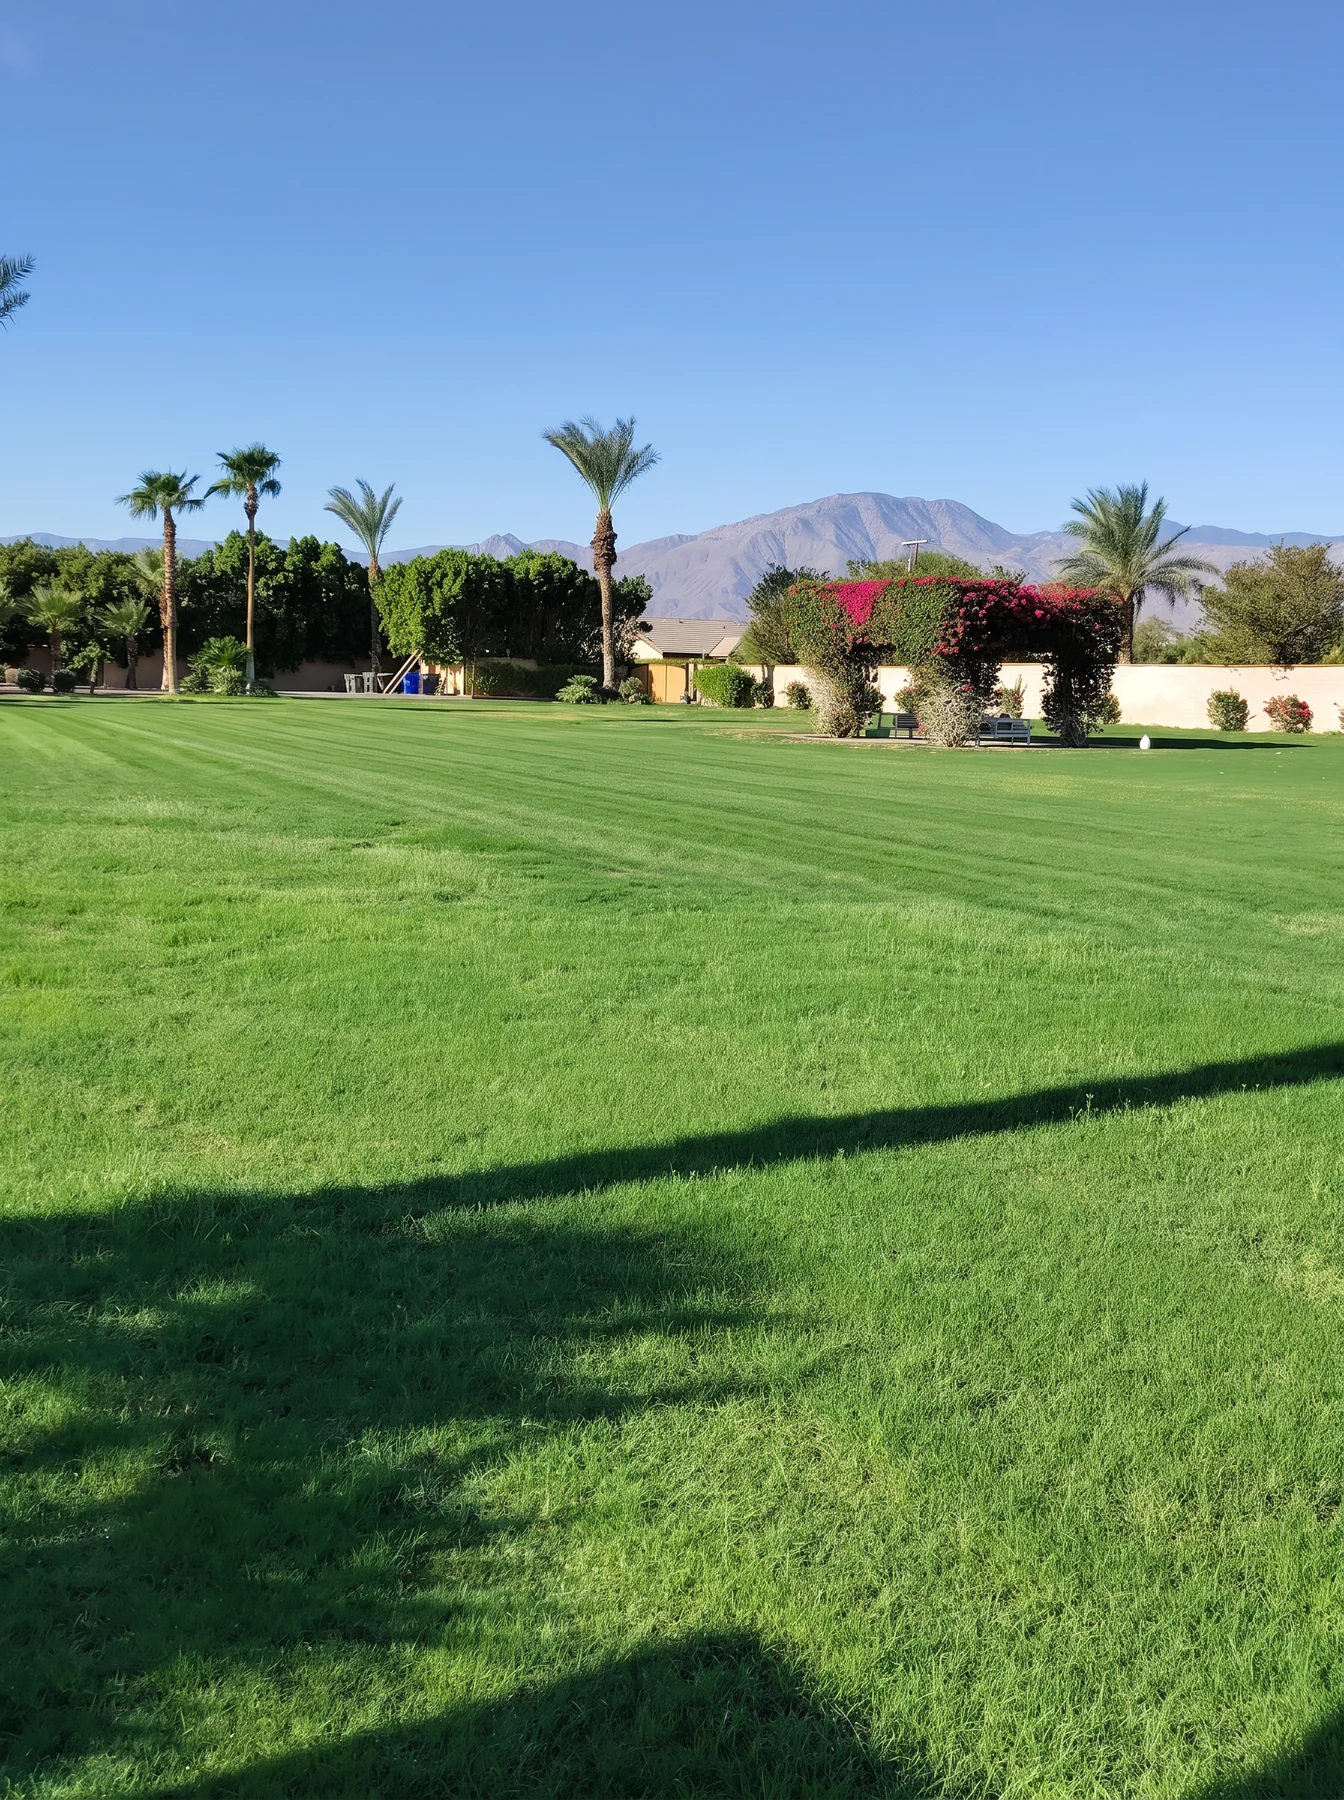
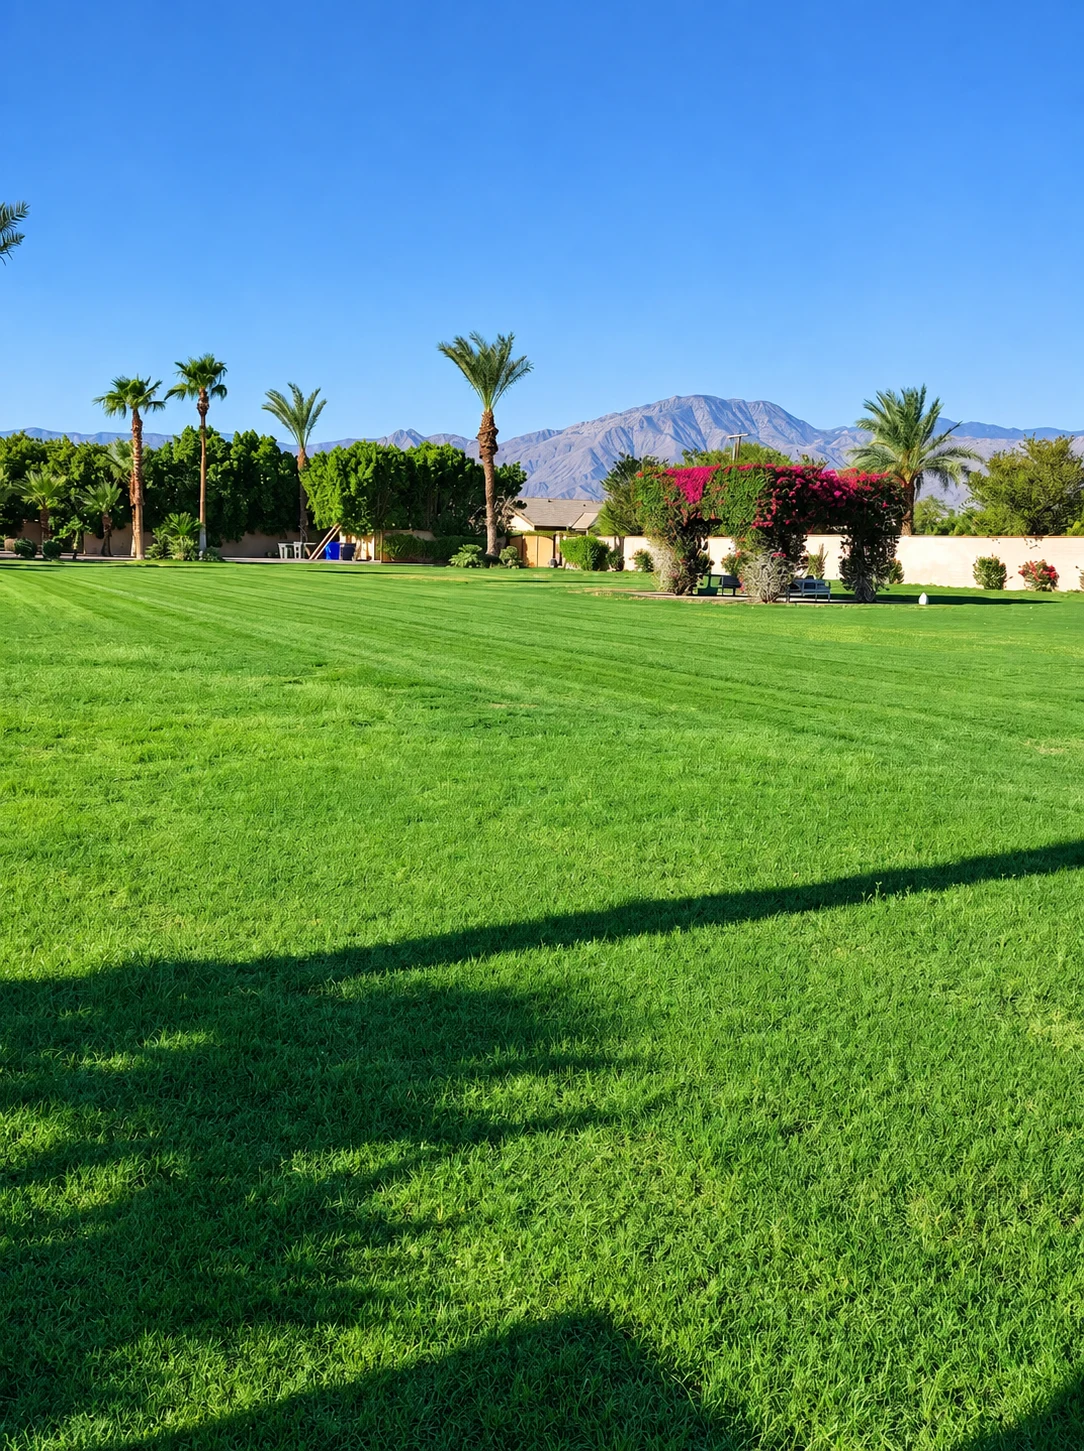
Elevate imagery and diversify landing heroes

diff --git a/src/main.js b/src/main.js
@@ -93,9 +93,9 @@ function picture(src, alt, className = '', loading = 'lazy') {
   return `<img class="${className}" src="${src}" alt="${alt}" loading="${loading}" decoding="async" />`
 }
 
-function pageHero({ image, eyebrow, title, copy, cta = 'Start planning', secondary = 'Explore', secondaryHref = '#story', badge = '' }) {
+function pageHero({ image, eyebrow, title, copy, cta = 'Start planning', secondary = 'Explore', secondaryHref = '#story', badge = '', variant = 'classic' }) {
   return `
-    <section class="page-hero">
+    <section class="page-hero page-hero--${variant}">
       ${picture(image, '', 'page-hero__image', 'eager')}
       <div class="page-hero__veil"></div>
       <div class="page-hero__content reveal is-visible">
@@ -247,7 +247,7 @@ function homePage() {
 function stayPage() {
   return `
     <main id="main">
-      ${pageHero({image: currentPoolOverview, eyebrow:'The private estate', title:'Three homes.<br /><em>One shared escape.</em>', copy:'A five-acre setting that gives the group a place to gather—and everyone enough space to find their own pace.', cta:'Check dates', secondary:'See the homes'})}
+      ${pageHero({image: '/media/estate/hardwood-fireplace.webp', eyebrow:'The private estate', title:'Come inside.<br /><em>Stay a while.</em>', copy:'Three private homes, newly finished interiors, and five acres that give the whole group room to settle into its own rhythm.', cta:'Check dates', secondary:'See the homes', variant:'interior'})}
       <section class="section-pad" id="story">
         ${editorialHeader('The homes', 'Together, without being on top of one another.', 'Three distinct homes share one relaxed design language: warm wood, clean white walls, collected art, shaded thresholds, and an easy connection to the grounds.')}
         <div class="home-cards">
@@ -307,7 +307,7 @@ function stayPage() {
 function weddingsPage() {
   return `
     <main id="main">
-      ${pageHero({image: currentStucco, eyebrow:'Weddings & celebrations', title:'Gather beautifully.<br /><em>Stay completely.</em>', copy:'An intimate desert setting for weddings, birthdays, and milestone weekends—with the estate reserved around your people.', cta:'Inquire about your date', secondary:'Imagine the weekend'})}
+      ${pageHero({image: currentStucco, eyebrow:'Weddings & celebrations', title:'Gather beautifully.<br /><em>Stay completely.</em>', copy:'An intimate desert setting for weddings, birthdays, and milestone weekends—with the estate reserved around your people.', cta:'Inquire about your date', secondary:'Imagine the weekend', variant:'event'})}
       <section class="intro split" id="story"><div class="intro__copy reveal"><p class="eyebrow">The occasion</p><h2>Not a ballroom.<br />A place that feels like yours.</h2><p class="lead">Celebrate under open sky, gather around the table, and let the weekend unfold without separating everyone at the end of the night.</p><p class="fine-print">All event use is reviewed individually and remains subject to applicable permits, insurance, parking, noise, and property requirements.</p></div><figure class="editorial-image editorial-image--portrait reveal">${picture(currentLawn, 'Current lawn and mountain view at Sunset Club Ranch')}<figcaption>Five acres for a more personal kind of gathering</figcaption></figure></section>
       <section class="chapter-section section-pad"><div class="chapter-grid">
         ${[
@@ -332,7 +332,7 @@ function weddingsPage() {
 function corporatePage() {
   return `
     <main id="main">
-      ${pageHero({image: currentStucco, eyebrow:'Corporate retreats', title:'Better ideas need<br /><em>better room.</em>', copy:'Trade the ballroom for five private acres, three homes, open-air conversations, and a setting built for teams to reconnect.', cta:'Plan a retreat', secondary:'See the format'})}
+      ${pageHero({image: eveningPoolLawn, eyebrow:'Corporate retreats', title:'Better ideas need<br /><em>better room.</em>', copy:'Trade the ballroom for five private acres, three homes, open-air conversations, and a setting built for teams to reconnect.', cta:'Plan a retreat', secondary:'See the format', variant:'retreat'})}
       <section class="section-pad" id="story">${editorialHeader('A different off-site', 'Think clearly. Gather naturally.', 'Build a focused retreat around privacy, indoor-outdoor work sessions, shared meals, and time that does not feel scheduled down to the minute.')}
         <div class="feature-grid">
           ${[
@@ -350,7 +350,7 @@ function corporatePage() {
 function afterDarkPage() {
   return `
     <main id="main" class="night-page">
-      ${pageHero({image: eveningPoolSpa, eyebrow:'A private Coachella week concept', title:'After Dark<br /><em>Coachella 2027.</em>', copy:'Days at the compound. Nights under the Coachella stars. A limited, inquiry-only hospitality concept now in development.', cta:'Join the private inquiry list', secondary:'Discover the concept', badge:'2027 concept · details in development'})}
+      ${pageHero({image: eveningPoolSpa, eyebrow:'A private Coachella week concept', title:'After Dark<br /><em>Coachella 2027.</em>', copy:'Days at the compound. Nights under the Coachella stars. A limited, inquiry-only hospitality concept now in development.', cta:'Join the private inquiry list', secondary:'Discover the concept', badge:'2027 concept · details in development', variant:'night'})}
       <section class="section-pad night-intro" id="story">${editorialHeader('The idea', 'When the festival comes home.', 'After Dark is envisioned as a private, highly serviced way to experience Coachella week—anchored by the estate and shaped around the people in it.')}
         <div class="pillars">
           ${[
@@ -376,7 +376,7 @@ function visionPage() {
   ]
   return `
     <main id="main">
-      ${pageHero({image:'/media/vision-2027/wellness-courtyard.webp', eyebrow:'The next chapter', title:'The estate,<br /><em>still becoming.</em>', copy:'A transparent preview of the spaces now being planned for 2027—from a reimagined barn to a desert wellness courtyard.', cta:'Follow the vision', secondary:'See what is planned', badge:'Concept rendering · not currently available'})}
+      ${pageHero({image:'/media/vision-2027/wellness-courtyard.webp', eyebrow:'The next chapter', title:'The estate,<br /><em>still becoming.</em>', copy:'A transparent preview of the spaces now being planned for 2027—from a reimagined barn to a desert wellness courtyard.', cta:'Follow the vision', secondary:'See what is planned', badge:'Concept rendering · not currently available', variant:'future'})}
       <section class="vision-principles section-pad" id="story">
         ${editorialHeader('Vision 2027', 'Show the future. Label it honestly.', 'These early visualizations express design intent, not current amenities. Timelines, scope, finishes, and availability may change as planning and construction progress.')}
         <div class="vision-timeline"><article class="reveal"><span>Now</span><h3>The estate today</h3><p>Five private acres, three homes, a resort-style pool and spa, outdoor living, lawns, games, and a growing art collection.</p></article><article class="reveal"><span>Planned 2027</span><h3>The Barn</h3><p>A reimagining of the existing approximately 2,500-square-foot structure, with an early plan that may include added bedrooms, bathrooms, flexible gathering space, fitness, and play.</p></article><article class="reveal"><span>Target October 2027</span><h3>Wellness courtyard</h3><p>An outdoor sauna, soaking or cold-plunge element, shower, and quiet recovery space within a desert garden setting.</p></article></div>

diff --git a/src/style.css b/src/style.css
@@ -93,6 +93,32 @@ button { color: inherit; }
 .page-hero__content { justify-content: flex-end; padding-bottom: 150px; }
 .page-hero h1 { max-width: 900px; }
 .page-hero__copy { max-width: 650px; }
+.page-hero--interior { background: #151512; }
+.page-hero--interior .page-hero__image { left: auto; width: 62%; object-position: center; }
+.page-hero--interior .page-hero__veil { background: linear-gradient(90deg, #151512 0%, rgba(21,21,18,.98) 28%, rgba(21,21,18,.74) 52%, rgba(21,21,18,.08) 80%), linear-gradient(0deg, rgba(10,10,8,.7), transparent 38%); }
+.page-hero--interior .page-hero__content { justify-content: center; }
+.page-hero--interior h1 { max-width: 650px; font-size: clamp(58px, 7.2vw, 110px); }
+.page-hero--interior .page-hero__copy { max-width: 515px; }
+.page-hero--event .page-hero__veil { background: linear-gradient(0deg, rgba(8,8,6,.84) 0%, rgba(8,8,6,.3) 58%, rgba(8,8,6,.12) 100%), linear-gradient(90deg, rgba(8,8,6,.22), transparent 35%, rgba(8,8,6,.22)); }
+.page-hero--event .page-hero__content { align-items: center; text-align: center; }
+.page-hero--event h1 { max-width: 1080px; }
+.page-hero--event .page-hero__copy { max-width: 720px; }
+.page-hero--event .hero-actions { justify-content: center; }
+.page-hero--retreat .page-hero__veil { background: linear-gradient(270deg, rgba(6,9,12,.84) 0%, rgba(6,9,12,.54) 42%, rgba(6,9,12,.08) 78%), linear-gradient(0deg, rgba(6,9,12,.74), transparent 46%); }
+.page-hero--retreat .page-hero__content { align-items: flex-end; text-align: right; }
+.page-hero--retreat h1 { max-width: 850px; }
+.page-hero--retreat .page-hero__copy { max-width: 610px; }
+.page-hero--retreat .hero-facts { justify-content: flex-start; }
+.page-hero--night .page-hero__veil { background: radial-gradient(circle at 58% 45%, rgba(11,22,57,.08), rgba(5,7,18,.52) 58%, rgba(5,7,18,.9) 100%), linear-gradient(0deg, rgba(5,7,18,.78), transparent 55%); }
+.page-hero--night .page-hero__content { justify-content: center; padding-top: 175px; padding-bottom: 105px; }
+.page-hero--night h1 { max-width: 780px; font-size: clamp(62px, 9vw, 132px); }
+.page-hero--future { background: #151611; }
+.page-hero--future .page-hero__image { right: auto; width: 64%; object-position: center; }
+.page-hero--future .page-hero__veil { background: linear-gradient(270deg, #151611 0%, rgba(21,22,17,.98) 30%, rgba(21,22,17,.7) 54%, rgba(21,22,17,.06) 82%), linear-gradient(0deg, rgba(8,9,7,.7), transparent 42%); }
+.page-hero--future .page-hero__content { align-items: flex-end; text-align: right; }
+.page-hero--future h1 { max-width: 680px; font-size: clamp(58px, 7.3vw, 108px); }
+.page-hero--future .page-hero__copy { max-width: 540px; }
+.page-hero--future .hero-actions { justify-content: flex-end; }
 .concept-badge { display: inline-flex; width: fit-content; padding: 8px 12px; border: 1px solid rgba(178,77,49,.35); background: rgba(178,77,49,.08); color: var(--terracotta); font: 700 9px/1 var(--accent); letter-spacing: .16em; text-transform: uppercase; }
 .concept-badge--hero { margin-bottom: 22px; border-color: rgba(255,255,255,.28); background: rgba(17,17,15,.48); color: var(--white); backdrop-filter: blur(8px); }
 
@@ -337,6 +363,11 @@ button { color: inherit; }
   .brand > span { font-size: 20px; }
   .brand small { font-size: 7px; }
   .home-hero__content, .page-hero__content { padding: 120px 0 128px; justify-content: flex-end; }
+  .page-hero--interior .page-hero__image, .page-hero--future .page-hero__image { inset: 0; width: 100%; }
+  .page-hero--interior .page-hero__veil, .page-hero--event .page-hero__veil, .page-hero--retreat .page-hero__veil, .page-hero--night .page-hero__veil, .page-hero--future .page-hero__veil { background: linear-gradient(0deg, rgba(8,8,6,.9) 0%, rgba(8,8,6,.42) 64%, rgba(8,8,6,.08) 100%); }
+  .page-hero--interior .page-hero__content, .page-hero--event .page-hero__content, .page-hero--retreat .page-hero__content, .page-hero--night .page-hero__content, .page-hero--future .page-hero__content { justify-content: flex-end; align-items: flex-start; text-align: left; padding-top: 120px; padding-bottom: 128px; }
+  .page-hero--interior h1, .page-hero--night h1, .page-hero--future h1 { font-size: clamp(47px, 14.2vw, 70px); }
+  .page-hero--event .hero-actions, .page-hero--future .hero-actions { justify-content: flex-start; }
   .home-hero h1, .page-hero h1 { font-size: clamp(47px, 14.2vw, 70px); }
   .brand--hero { display: none; }
   .home-hero__kicker { margin-top: 0; }

diff --git a/corporate.html b/corporate.html
@@ -8,13 +8,13 @@
   <link rel="canonical" href="https://sunsetclubranch.com/corporate.html" />
   <meta property="og:title" content="Corporate Retreats at Sunset Club Ranch" />
   <meta property="og:description" content="A private desert setting for teams to think clearly and reconnect." />
-  <meta property="og:image" content="https://sunsetclubranch.com/media/estate/poolside-white-stucco.webp" />
+  <meta property="og:image" content="https://sunsetclubranch.com/media/estate/evening-pool-lawn.webp" />
   <meta name="twitter:card" content="summary_large_image" />
   <meta name="theme-color" content="#171713" />
   <link rel="preconnect" href="https://fonts.googleapis.com" />
   <link rel="preconnect" href="https://fonts.gstatic.com" crossorigin />
   <link href="https://fonts.googleapis.com/css2?family=DM+Sans:wght@300;400;500;600&family=Montserrat:wght@500;600;700&family=Playfair+Display:ital,wght@0,400;0,500;1,400;1,500&display=swap" rel="stylesheet" />
-  <link rel="preload" as="image" href="/media/estate/poolside-white-stucco.webp" fetchpriority="high" />
+  <link rel="preload" as="image" href="/media/estate/evening-pool-lawn.webp" fetchpriority="high" />
 </head>
 <body data-page="corporate"><div id="app"></div><script type="module" src="/src/main.js"></script></body>
 </html>

diff --git a/stay.html b/stay.html
@@ -8,13 +8,13 @@
   <link rel="canonical" href="https://sunsetclubranch.com/stay.html" />
   <meta property="og:title" content="Stay at Sunset Club Ranch" />
   <meta property="og:description" content="Three homes across five private acres in Indio, California." />
-  <meta property="og:image" content="https://sunsetclubranch.com/media/estate/resort-pool-overview.webp" />
+  <meta property="og:image" content="https://sunsetclubranch.com/media/estate/hardwood-fireplace.webp" />
   <meta name="twitter:card" content="summary_large_image" />
   <meta name="theme-color" content="#171713" />
   <link rel="preconnect" href="https://fonts.googleapis.com" />
   <link rel="preconnect" href="https://fonts.gstatic.com" crossorigin />
   <link href="https://fonts.googleapis.com/css2?family=DM+Sans:wght@300;400;500;600&family=Montserrat:wght@500;600;700&family=Playfair+Display:ital,wght@0,400;0,500;1,400;1,500&display=swap" rel="stylesheet" />
-  <link rel="preload" as="image" href="/media/estate/resort-pool-overview.webp" fetchpriority="high" />
+  <link rel="preload" as="image" href="/media/estate/hardwood-fireplace.webp" fetchpriority="high" />
 </head>
 <body data-page="stay"><div id="app"></div><script type="module" src="/src/main.js"></script></body>
 </html>

diff --git a/README.md b/README.md
@@ -32,6 +32,7 @@ pnpm build
 Published, optimized website media lives in `public/media/`:
 
 - `estate/` contains current Sunset Club Ranch photography.
+- `incoming-media/4k-masters/` contains preservation-focused restored masters used to export the active current-property photographs.
 - `art/` contains owner-supplied images of artwork in current interiors.
 - `current-upgrades/` contains owner-supplied visualizations of completed work awaiting fresh photography.
 - `event-concepts/` contains AI-assisted styling studies grounded in authentic property photographs and disclosed as concepts in the interface.
@@ -44,6 +45,8 @@ Original high-resolution supplied files are intentionally kept outside version c
 ## Content integrity
 
 Current-property photography, visualizations of completed work, event-styling concepts, and future concepts must remain visibly distinct. Completed-work visualizations must say that the feature exists today and that fresh photography is pending. Event concepts must state that they are inspirational and do not promise included decor, furniture, staffing, or services. Any planned feature, visualization, or timeline must be labeled as conceptual, under development, and not currently available until the property team confirms completion. Do not introduce stock photographs or images from another property.
+
+The definitive interior material reference is the current linear-fireplace photograph with soft light-wood flooring. Any published interior image with a visible floor must match that renovation; otherwise crop the floor out or retire the image. Each primary landing page uses a distinct hero image and layout rather than reusing one generic treatment.
 
 ## Inquiry handling
 
